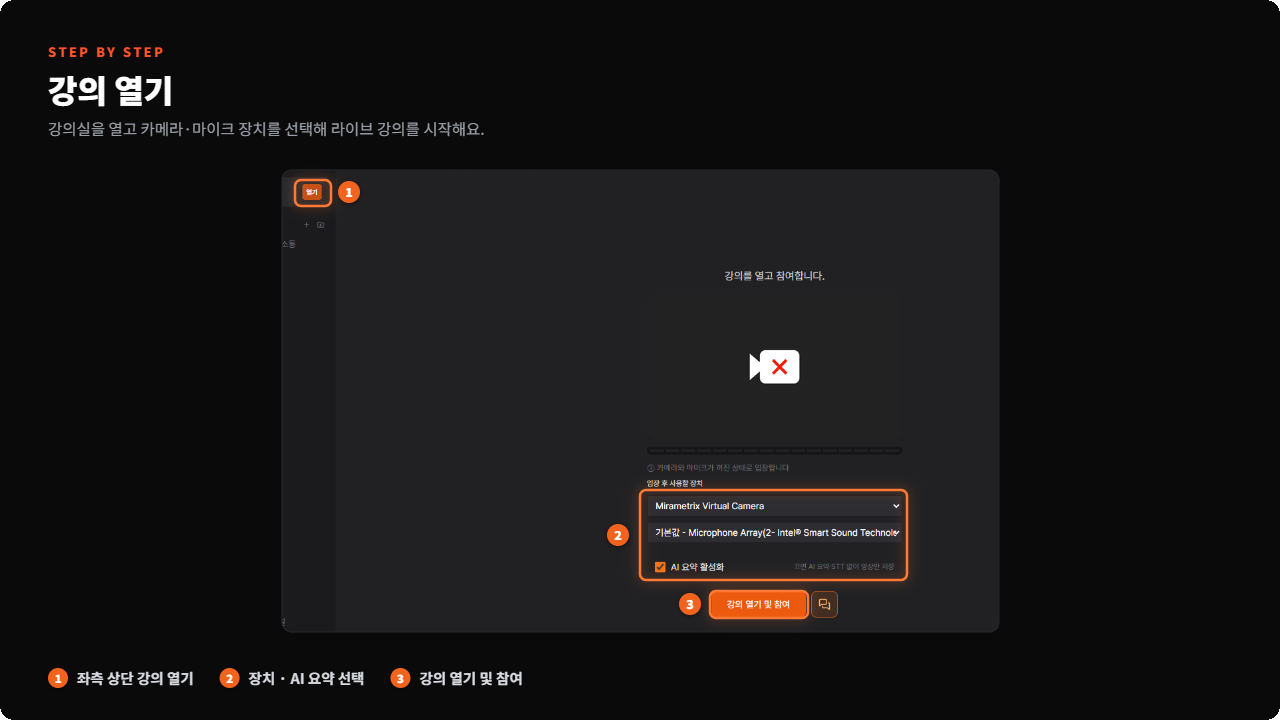
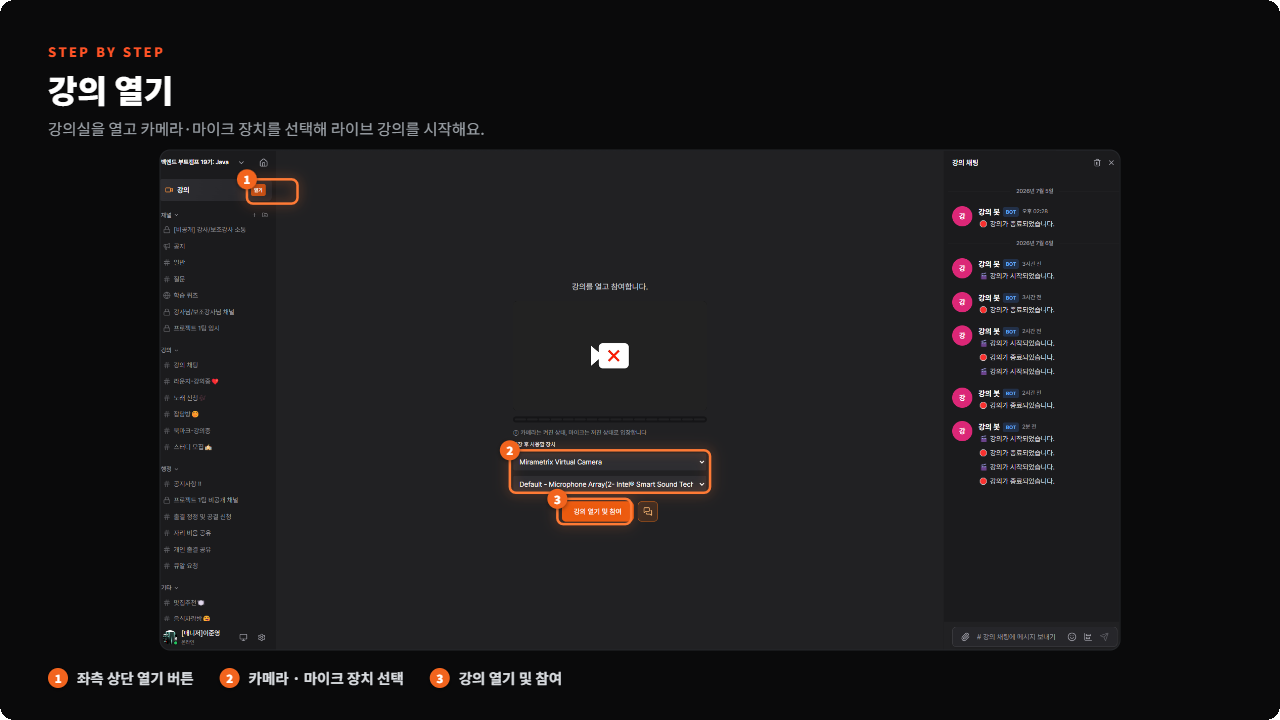
docs(campfire-guide): 채널 유형 QR 확인 추가 및 강의 자동 녹화 정책 반영
- 매니저: 채널 만들기 이미지/본문에 'QR 확인' 유형 추가
- 매니저·강사: 강의 열기 시 'AI 요약 활성화' 체크 단계 제거
  → 모든 정식 강의 자동 녹화 + AI 요약·STT 자동 생성으로 문구 통일
- 강사 FAQ '녹화를 깜빡했어요' 항목 삭제 (자동 녹화로 무의미)
- 강의 열기 스크린샷 3종 교체(매니저 채널만들기·강의열기, 강사 강의열기)

diff --git a/campfire/1-planning/campfire-guide/manager-data.js b/campfire/1-planning/campfire-guide/manager-data.js
@@ -191,7 +191,7 @@ const GUIDE_DATA = [
         html: `
           <ol>
             <li>사이드바 카테고리명 옆 [+] 클릭 → '채널 만들기' 모달</li>
-            <li><strong>채널 유형 선택</strong>: 텍스트 / 공지 / 화상 / 임베드</li>
+            <li><strong>채널 유형 선택</strong>: 텍스트 / 공지 / 화상 / 임베드 / QR 확인 <span style="opacity:.7">(QR 확인 = 얼굴 인증 후 등록한 QR 이미지 확인)</span></li>
             <li><strong>채널 이름 입력</strong> (예: 질문, 3주차-과제)</li>
             <li><strong>카테고리 선택</strong> — 기본값 '채널(기본)', 드롭다운에서 변경</li>
             <li>(선택) <strong>비공개 채널 토글</strong> — 관리자 자동 접근 허용·멤버 초대 옵션 노출</li>
@@ -406,11 +406,11 @@ const GUIDE_DATA = [
           <ol>
             <li>사이드바 최상단 <strong>[강의] 카드 &gt; [열기]</strong> → '강의를 열고 참여합니다' 화면</li>
             <li>장치 선택: <strong>카메라·마이크는 꺼진 상태로 입장</strong>되며 사용할 카메라/마이크를 드롭다운에서 선택</li>
-            <li><strong>AI 요약 활성화</strong> 체크 (아래 녹화 정책 참고)</li>
             <li>[강의 열기 및 참여] 클릭 → 시작</li>
           </ol>
+          <div class="callout callout--info"><span class="callout__ico">🎥</span><div>별도 설정 없이 <strong>모든 정식 강의는 자동으로 녹화</strong>되고 <strong>AI 요약·STT</strong>까지 생성됩니다. (예전 '<strong>AI 요약 활성화</strong>' 체크 단계는 없어졌습니다)</div></div>
           <p>강의가 시작·종료되면 <strong>강의봇</strong>이 '강의 중' 채널에 <code>강의가 시작되었습니다</code> / <code>강의가 종료되었습니다</code>를 자동 게시하고, 날짜별 강의 쓰레드가 생성됩니다.</p>
-          <div class="shot">📸 스크린샷: 강의 열기 및 참여 화면 (AI 요약 활성화 체크박스)</div>
+          <div class="shot">📸 스크린샷: 강의 열기 및 참여 화면</div>
         `,
       },
       {
@@ -430,11 +430,10 @@ const GUIDE_DATA = [
         id: "s7-3", title: "녹화 & AI 요약",
         html: `
           <ul>
-            <li><strong>AI 요약 활성화 ON</strong> → 강의가 <strong>무조건 녹화</strong>되며 영상 + AI 요약·STT(음성→텍스트)까지 생성</li>
-            <li><strong>AI 요약 활성화 OFF</strong> → AI 요약·STT 없이 <strong>영상만 저장</strong></li>
+            <li><strong>모든 정식 강의는 자동으로 녹화</strong>되며, <strong>영상 + AI 요약·STT(음성→텍스트)</strong>가 함께 생성됩니다. (예전 'AI 요약 활성화' 토글은 없어졌고, 별도 설정이 필요 없습니다)</li>
             <li>저장된 녹화는 <strong>사이드바 [강의] 영역 &gt; 녹화 탭</strong>에서 확인. 시작 시각·상태·재생시간·파일 크기·AI 요약이 표시되며 재생(▶)·다운로드(⬇) 가능</li>
           </ul>
-          <div class="callout callout--warn"><span class="callout__ico">⚠</span><div>수강생에게 녹화 사실을 고지하는 것이 좋습니다. AI 요약 ON 시 음성이 텍스트로 기록되므로 개인정보·민감 발언이 남을 수 있습니다.</div></div>
+          <div class="callout callout--warn"><span class="callout__ico">⚠</span><div>모든 강의가 자동으로 녹화·AI 요약되어 음성이 텍스트로 기록됩니다. 개인정보·민감 발언이 남을 수 있으니 <strong>수강생에게 녹화 사실을 미리 고지</strong>하세요.</div></div>
           <div class="shot">📸 스크린샷: 강의 &gt; 녹화 탭 목록</div>
         `,
       },
@@ -575,7 +574,7 @@ const GUIDE_DATA = [
         html: `
           <details class="faq"><summary>Q. 채널을 잘못 삭제했어요. 복구할 수 있나요?</summary><div>채널 삭제 복구 기능 제공 여부는 확인 중입니다. 삭제된 메시지는 복구가 어려울 수 있으므로, 삭제 전 중요 내용은 백업하고 <strong>[보관·이름 변경]으로 먼저 처리한 뒤 정말 필요할 때만 삭제</strong>하는 것을 권장합니다. (정확한 복구 여부는 추후 업데이트)</div></details>
           <details class="faq"><summary>Q. 수강생이 다른 기수 채널을 볼 수 있나요?</summary><div>없습니다. 공간은 <strong>훈련(기수)별로 각각 분리</strong>되며, 수강생은 본인이 등록·초대된 공간에만 입장합니다. (매니저·강사가 여러 훈련을 담당할 때만 디스코드 서버처럼 공간을 전환해 이동)</div></details>
-          <details class="faq"><summary>Q. 녹화 영상은 어디에 저장되나요?</summary><div>강의를 열 때 <strong>AI 요약 활성화</strong>를 켜면 영상 + AI 요약·STT(자막)이 함께, 끄면 영상만 저장됩니다. 저장된 녹화는 <strong>사이드바 [강의] 영역 &gt; 녹화 탭</strong>에서 재생·다운로드할 수 있습니다. (7장 참고)</div></details>
+          <details class="faq"><summary>Q. 녹화 영상은 어디에 저장되나요?</summary><div><strong>모든 정식 강의는 자동으로 녹화</strong>되며 영상 + AI 요약·STT(자막)이 함께 저장됩니다. (예전 'AI 요약 활성화' 설정은 없어졌습니다) 저장된 녹화는 <strong>사이드바 [강의] 영역 &gt; 녹화 탭</strong>에서 재생·다운로드할 수 있습니다. (7장 참고)</div></details>
         `,
       },
     ],

diff --git a/campfire/1-planning/campfire-guide/instructor-data.js b/campfire/1-planning/campfire-guide/instructor-data.js
@@ -121,9 +121,9 @@ const GUIDE_DATA = [
           <ol>
             <li>사이드바 최상단 <strong>[강의] 카드 &gt; [열기]</strong> → '강의를 열고 참여합니다' 화면</li>
             <li><strong>카메라·마이크는 꺼진 상태로 입장</strong>, 사용할 장치를 드롭다운에서 선택</li>
-            <li><strong>AI 요약 활성화</strong> 체크 여부 결정 (5-5)</li>
             <li><strong>[강의 열기 및 참여]</strong> → 시작</li>
           </ol>
+          <div class="callout callout--info"><span class="callout__ico">🎥</span><div>별도 설정 없이 <strong>모든 정식 강의는 자동으로 녹화</strong>되고 <strong>AI 요약·STT</strong>까지 생성됩니다. (예전 '<strong>AI 요약 활성화</strong>' 체크 단계는 없어졌습니다 · 5-5)</div></div>
           <ul>
             <li>시작·종료 시 <strong>강의봇</strong>이 '강의 중' 채널에 자동 게시</li>
             <li>진행 중에는 [강의] 카드가 <strong>[Live]</strong> 표시로 바뀜</li>
@@ -178,12 +178,10 @@ const GUIDE_DATA = [
       { id:"i5-5", title:"녹화 & AI 요약",
         html:`
           <ul>
-            <li><strong>AI 요약 활성화 ON</strong> → <strong>무조건 녹화</strong> + 영상 + AI 요약·STT 생성</li>
-            <li><strong>OFF</strong> → 영상만 저장</li>
-            <li>녹화 시작 여부는 입장 전 체크박스로 결정 → <strong>강의 열 때 한 번 더 확인</strong></li>
+            <li><strong>모든 정식 강의는 자동으로 녹화</strong>되며, 영상 + AI 요약·STT까지 함께 생성됩니다. (예전 'AI 요약 활성화' 토글은 없어졌고, 별도 설정이 필요 없습니다)</li>
             <li>저장된 녹화: <strong>[강의] 영역 &gt; 녹화 탭</strong>에서 재생(▶)·다운로드(⬇)</li>
           </ul>
-          <div class="callout callout--warn"><span class="callout__ico">⚠</span><div>수강생에게 녹화 사실을 고지하세요. AI 요약 ON 시 음성이 텍스트로 기록되어 민감 발언이 남을 수 있습니다.</div></div>
+          <div class="callout callout--warn"><span class="callout__ico">⚠</span><div>모든 강의가 자동으로 녹화·AI 요약되어 음성이 텍스트로 기록됩니다. 민감 발언이 남을 수 있으니 <strong>수강생에게 녹화 사실을 미리 고지</strong>하세요.</div></div>
           <div class="shot">📸 스크린샷: 강의 &gt; 녹화 탭</div>` },
     ],
   },
@@ -248,7 +246,6 @@ const GUIDE_DATA = [
     sections:[
       { id:"i9-0", title:"자주 묻는 질문",
         html:`
-          <details class="faq"><summary>Q. 녹화를 깜빡했어요. 어떻게 하나요?</summary><div>녹화는 강의를 열 때 'AI 요약 활성화' 체크로 결정되며, 시작 후 소급 녹화는 어렵습니다. 다음 강의부터 [강의 열기 및 참여] 화면에서 체크 여부를 먼저 확인하세요.</div></details>
           <details class="faq"><summary>Q. 수강생 화면을 대신 봐줄 수 있나요? (원격 지원)</summary><div>원격 제어 기능은 제공하지 않습니다. 수강생이 화면을 공유하게 하고 강사가 보며 안내하는 방식을 권장합니다.</div></details>
           <details class="faq"><summary>Q. 소그룹(브레이크아웃)으로 나눌 수 있나요?</summary><div>전용 소그룹 기능은 현재 없습니다. 사이드바의 팀별 화상 채널로 나눠 들어가게 하고 강사가 순회하는 방식을 권장합니다(채널 생성은 매니저에 요청).</div></details>` },
     ],

diff --git a/campfire/1-planning/campfire-guide/images/_README-스크린샷-목록.md b/campfire/1-planning/campfire-guide/images/_README-스크린샷-목록.md
@@ -18,7 +18,7 @@
 | `manager-s6-2-1.png` | 6.공지 & 메시지 운영 · 데일리 팝업 (입장 시 노출 공지) | 데일리 팝업 편집 화면 | ✅ |
 | `manager-s6-3-1.png` | 6.공지 & 메시지 운영 · 메시지 핀 고정 & 스레드 | 더보기 — 고정 메뉴 + 고정 패널 / 스레드 패널 | ✅ |
 | `manager-s6-4-1.png` | 6.공지 & 메시지 운영 · 1:1 통화 (DM 음성·화상) | DM 1:1 통화 (걸기 · 다이얼로그 · 수신) | ✅ |
-| `manager-s7-2-1.png` | 7.화상 세션 운영 · 강의 열기 (정식 강의) | 강의 열기 및 참여 화면 (AI 요약 활성화 체크박스) | ✅ |
+| `manager-s7-2-1.png` | 7.화상 세션 운영 · 강의 열기 (정식 강의) | 강의 열기 및 참여 화면 (자동 녹화 — AI 요약 체크박스 없음) | ✅ |
 | `manager-s7-5-1.png` | 7.화상 세션 운영 · 수강생 호출 (미입장자 알림) | 더보기 > 수강생 호출 → 메시지 작성·발송 | ✅ |
 | `manager-s7-3-1.png` | 7.화상 세션 운영 · 녹화 & AI 요약 | 강의 > 녹화 탭 목록 | ✅ |
 | `manager-s7-4-1.png` | 7.화상 세션 운영 · 참가자(멤버) 관리 & 이해도 확인 | 설정 > 멤버(제어) / 이해 확인 뷰·수강생 응답 팝업 | ✅ |
